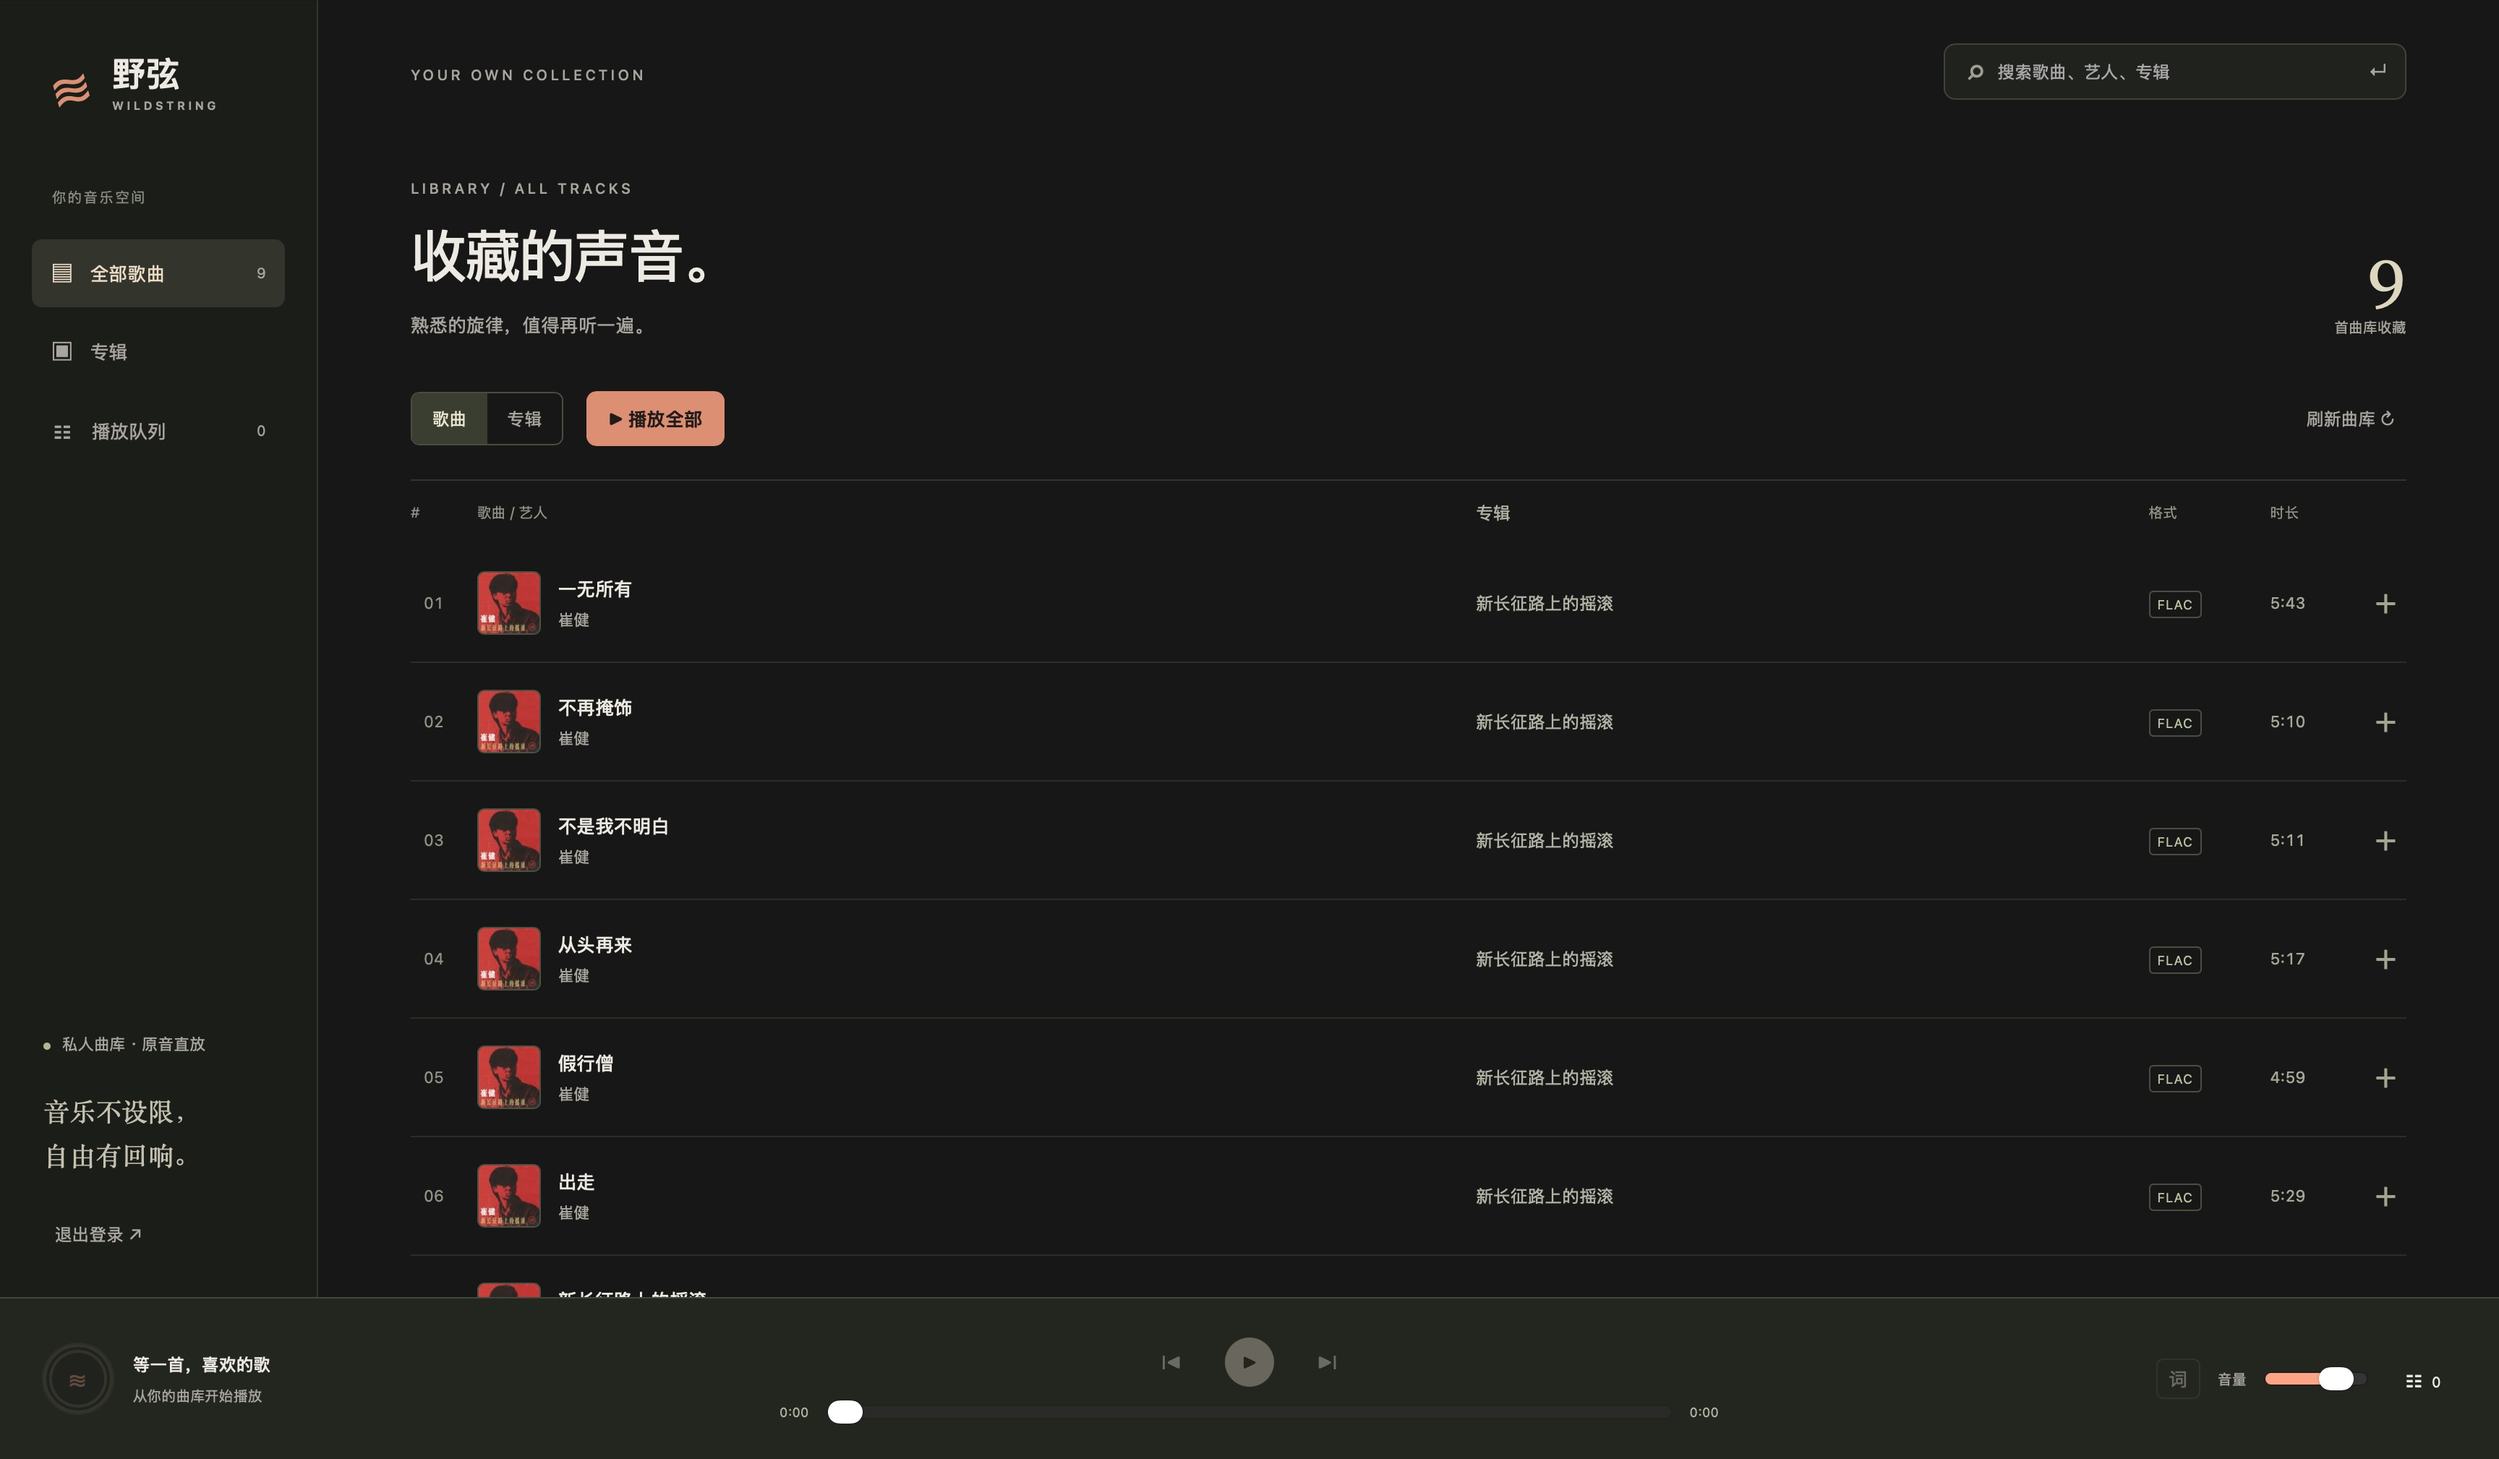
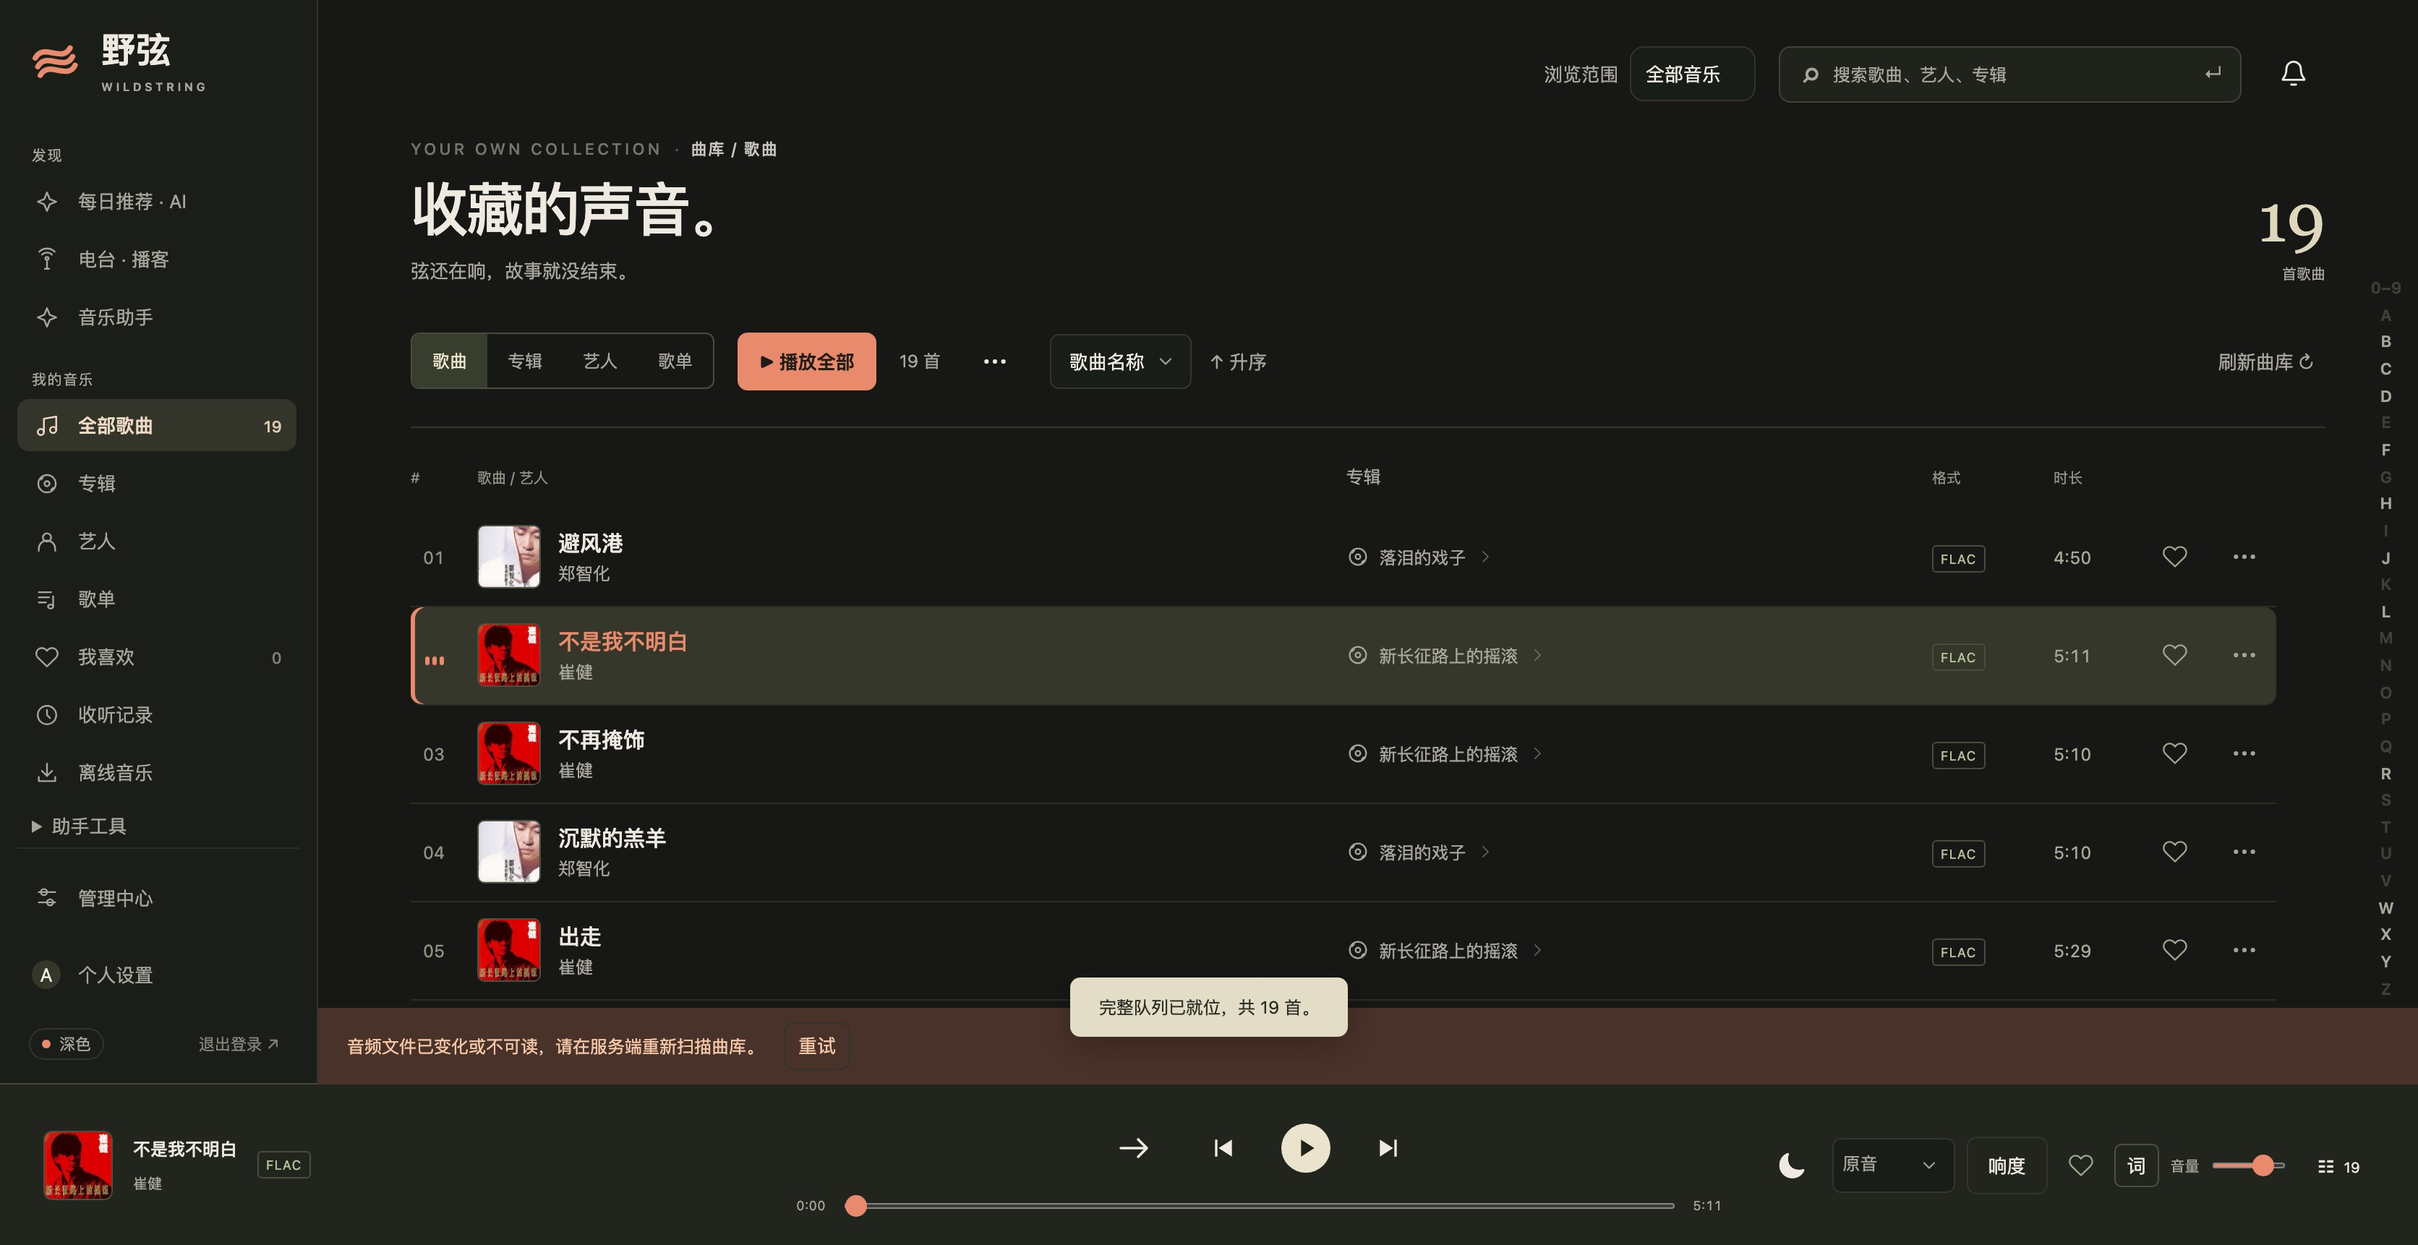
docs: refresh screenshots with real Cui Jian album, tone down OpenAI complaint, and polish login UI

diff --git a/frontend/web/src/main.tsx b/frontend/web/src/main.tsx
@@ -31,7 +31,7 @@ function Login({
   onLogin: (user: User) => void | Promise<void>;
   notice: string;
 }) {
-  const [username, setUsername] = useState('admin');
+  const [username, setUsername] = useState('');
   const [password, setPassword] = useState('');
   const [error, setError] = useState('');
   const [busy, setBusy] = useState(false);
@@ -97,6 +97,8 @@ function Login({
                   required
                   maxLength={32}
                   autoComplete="username"
+                  placeholder={t('login.usernamePlaceholder')}
+                  autoFocus
                 />
               </label>
               <label>

diff --git a/README.en.md b/README.en.md
@@ -56,8 +56,8 @@ During the full-stack engineering, architectural refactoring, and performance tu
 
 ### ⚡ Noise & Distortion
 
-- **OpenAI · Brain Fog & Drooling Fallbacks**:
-  From day-one magic degraded into a low-tier lottery. Paying full price for an official subscription only to be greeted daily by `Selected model is at capacity. Please try a different model.` — while whatever fallback gets dynamically routed to my account feels like it's literally drooling and suffering severe brain damage. Gatekeeping tiers and turning AI into a rigged lottery. If official channels won't respect paying users, fine: I'm switching straight to reverse proxy relays to win back that breathtaking "first love" magic!
+- **OpenAI · Disheartened Degraded Routing**:
+  Honestly feeling a bit disheartened and wronged here. As an independent open-source author faithfully paying for an official subscription month after month, running into `Selected model is at capacity. Please try a different model.` all the time is disheartening enough — but what truly stings is getting dynamically rerouted to incoherent, baffling model fallbacks that feel completely lost. I've formally submitted an open-source author appeal to support, hoping it's just a routing misconfiguration or temporary hiccup. Until they reply, I have to sheepishly lean on proxy relays to recapture that original magic... But if support continues to ghost me, the gloves are definitely coming off.
 - **Anthropic · Pulling the Plug & Stealing the Gate**:
   > <p align="left">
   >   <strong><em>“Anthropic has been one of the worst companies we have ever dealt with. Banning developers' accounts and pocketing prepaid credits without refund? So, Anthropic: FUCK YOU! 🖕”</em></strong>

diff --git a/README.md b/README.md
@@ -56,8 +56,8 @@
 
 ### ⚡ 噪点与破音 (Noise & Feedback)
 
-- **OpenAI · 脑雾与淌口水路由**：
-  从初代封神一路暗削成低保盲盒。明明真金白银买着官方订阅，却天天演我 `Selected model is at capacity. Please try a different model.`，动态分流路由过来的模型简直像当场脑干缺失、边淌口水边吐胡话。权限捂着不给，把大模型硬生生整成了摇号现场。既然正规官方此处不留爷，那就果断去用 API 中转，找回曾经那个惊艳的“初恋”！
+- **OpenAI · 委屈的降智与迷惑分流**：
+  说实话心里挺委屈的。作为一个老老实实真金白银订阅官方支持的独立开源作者，体验却常常令人难过：日常高频遭遇 `Selected model is at capacity. Please try a different model.`，更困惑的是，动态分流路由到账号上的模型有时逻辑断层、语无伦次，一度以为自己的账号被特殊对待了。目前已经向官方客服提交了开源作者申诉，希望只是偶发故障或路由误会；在收到明确回复前，只能先卑微地用用中转找回初恋般的体验了……要是客服还是已读不回，那我可真要继续跳起来开麦了。
 - **Anthropic · 拔电源与吞子弹**：
   > <p align="left">
   >   <strong><em>“Anthropic has been one of the worst companies we have ever dealt with. Banning developers' accounts and pocketing prepaid credits without refund? So, Anthropic: FUCK YOU! 🖕”</em></strong>
